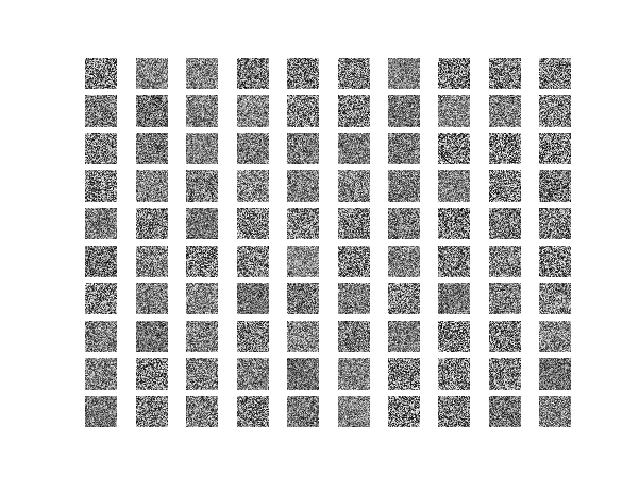
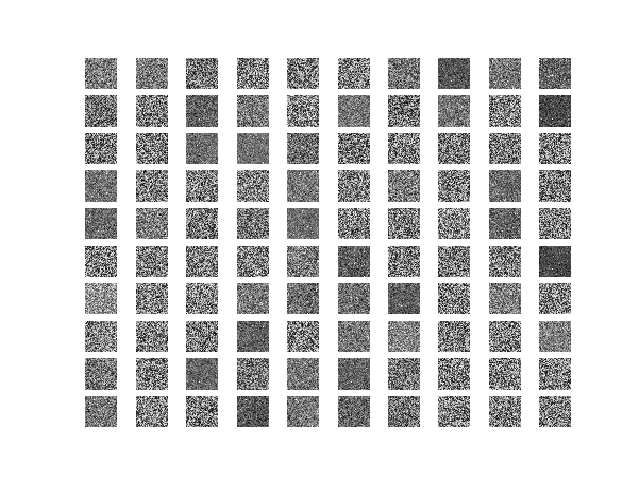
Project 2b3-1

diff --git a/CZ4042-Neural-Networks/Proj2/project2b_3_1.py b/CZ4042-Neural-Networks/Proj2/project2b_3_1.py
@@ -1,0 +1,179 @@
+from load import mnist
+import numpy as np
+
+import pylab
+
+import theano
+import theano.tensor as T
+from theano.sandbox.rng_mrg import MRG_RandomStreams as RandomStreams
+
+# 1 encoder, decoder and a softmax layer
+
+def init_weights(n_visible, n_hidden):
+    initial_W = np.asarray(
+        np.random.uniform(
+            low=-4 * np.sqrt(6. / (n_hidden + n_visible)),
+            high=4 * np.sqrt(6. / (n_hidden + n_visible)),
+            size=(n_visible, n_hidden)),
+        dtype=theano.config.floatX)
+    return theano.shared(value=initial_W, name='W', borrow=True)
+
+def init_bias(n):
+    return theano.shared(value=np.zeros(n,dtype=theano.config.floatX),borrow=True)
+
+#Momentum
+#Decay parameter ??
+def sgd_momentum(cost, params, lr=0.1, decay=0.0001, momentum=0.1):
+    grads = T.grad(cost=cost, wrt=params)
+    updates = []
+    for p, g in zip(params, grads):
+        v = theano.shared(p.get_value())
+        v_new = momentum*v - (g + decay*p) * lr
+        updates.append([p, p + v_new])
+        updates.append([v, v_new])
+        return updates
+
+trX, teX, trY, teY = mnist()
+
+trX, trY = trX[:12000], trY[:12000]
+teX, teY = teX[:2000], teY[:2000]
+
+x = T.fmatrix('x')  
+d = T.fmatrix('d')
+
+
+rng = np.random.RandomState(123)
+theano_rng = RandomStreams(rng.randint(2 ** 30))
+
+corruption_level=0.1
+training_epochs = 5
+learning_rate = 0.1
+batch_size = 128
+beta = 0.5
+rho = 0.05
+
+
+W1 = init_weights(28*28, 900)
+b1 = init_bias(900)
+b1_prime = init_bias(28*28)
+W1_prime = W1.transpose()
+
+W2 = init_weights(900, 625)
+b2 = init_bias(625)
+b2_prime = init_bias(900)
+W2_prime = W2.transpose()
+
+W3 = init_weights(625, 400)
+b3 = init_bias(400)
+b3_prime = init_bias(625)
+W3_prime = W3.transpose()
+
+
+tilde_x = theano_rng.binomial(size=x.shape, n=1, p=1 - corruption_level,
+                              dtype=theano.config.floatX)*x
+y1 = T.nnet.sigmoid(T.dot(tilde_x, W1) + b1)
+z1 = T.nnet.sigmoid(T.dot(y1, W1_prime) + b1_prime)
+
+y2 = T.nnet.sigmoid(T.dot(y1, W2) + b2)
+z2 = T.nnet.sigmoid(T.dot(y2, W2_prime) + b2_prime)
+
+y3 = T.nnet.sigmoid(T.dot(y2, W3) + b3)
+z3 = T.nnet.sigmoid(T.dot(y3, W3_prime) + b3_prime)
+
+
+cost1 = - T.mean(T.sum(x * T.log(z1) + (1 - x) * T.log(1 - z1), axis=1)) \
+				+ beta*T.shape(z1)[1]*(rho*T.log(rho) + (1-rho)*T.log(1-rho)) \
+				- beta*rho*T.sum(T.log(T.mean(z1, axis=0)+1e-6)) \
+				- beta*(1-rho)*T.sum(T.log(1-T.mean(z1, axis=0)+1e-6))
+
+cost2 = - T.mean(T.sum(y1 * T.log(z2) + (1 - y1) * T.log(1 - z2), axis=1)) \
+				+ beta*T.shape(z2)[1]*(rho*T.log(rho) + (1-rho)*T.log(1-rho)) \
+				- beta*rho*T.sum(T.log(T.mean(z2, axis=0)+1e-6)) \
+				- beta*(1-rho)*T.sum(T.log(1-T.mean(z2, axis=0)+1e-6))
+
+cost3 = - T.mean(T.sum(y2 * T.log(z3) + (1 - y2) * T.log(1 - z3), axis=1)) \
+				+ beta*T.shape(z1)[1]*(rho*T.log(rho) + (1-rho)*T.log(1-rho)) \
+				- beta*rho*T.sum(T.log(T.mean(z3, axis=0)+1e-6)) \
+				- beta*(1-rho)*T.sum(T.log(1-T.mean(z3, axis=0)+1e-6))
+
+
+params1 = [W1, b1, b1_prime]
+updates1 = sgd_momentum(cost1, params1)
+train_da1 = theano.function(inputs=[x], outputs = cost1, updates = updates1, allow_input_downcast = True)
+
+params2 = [W2, b2, b2_prime]
+updates2 = sgd_momentum(cost2, params2)
+train_da2 = theano.function(inputs=[x], outputs = cost2, updates = updates2, allow_input_downcast = True)
+
+params3 = [W3, b3, b3_prime]
+updates3 = sgd_momentum(cost3, params3)
+train_da3 = theano.function(inputs=[x], outputs = cost3, updates = updates3, allow_input_downcast = True)
+
+
+print('training dae1 ...')
+d = []
+for epoch in range(training_epochs):
+    # go through trainng set
+    c = []
+    for start, end in zip(range(0, len(trX), batch_size), range(batch_size, len(trX), batch_size)):
+        c.append(train_da1(trX[start:end]))
+    d.append(np.mean(c, dtype='float64'))
+    print(d[epoch])
+
+pylab.figure("Cross entropy hidden layers")
+pylab.plot(range(training_epochs), d, color = "blue", label = "Training layer 1")
+pylab.xlabel('iterations')
+pylab.ylabel('cross-entropy')
+
+print("\ntraining dae2")
+d = []
+for epoch in range(training_epochs):
+    # go through trainng set
+    c = []
+    for start, end in zip(range(0, len(trX), batch_size), range(batch_size, len(trX), batch_size)):
+        c.append(train_da2(trX[start:end]))
+    d.append(np.mean(c, dtype='float64'))
+    print(d[epoch])
+
+
+pylab.plot(range(training_epochs), d, color = "red", label = "Training layer 2")
+
+
+print("\ntraining dae3")
+d = []
+for epoch in range(training_epochs):
+    # go through trainng set
+    c = []
+    for start, end in zip(range(0, len(trX), batch_size), range(batch_size, len(trX), batch_size)):
+        c.append(train_da3(trX[start:end]))
+    d.append(np.mean(c, dtype='float64'))
+    print(d[epoch])
+
+pylab.plot(range(training_epochs), d, color = "green", label = "Training layer 3")
+pylab.plt.legend(loc = "best")
+
+
+w1 = W1.get_value()
+pylab.figure('Hidden Layer 1')
+pylab.gray()
+for i in range(100):
+    pylab.subplot(10, 10, i+1); pylab.axis('off'); pylab.imshow(w1[:,i].reshape(28,28))
+pylab.savefig('figure_2b_2.png')
+
+
+w2 = W2.get_value()
+pylab.figure('Hidden Layer 2')
+pylab.gray()
+for i in range(100):
+    pylab.subplot(10, 10, i+1); pylab.axis('off'); pylab.imshow(w2[:,i].reshape(30,30))
+pylab.savefig('figure_2b_5.png')
+
+w3 = W3.get_value()
+pylab.figure('Hidden Layer 3')
+pylab.gray()
+for i in range(100):
+    pylab.subplot(10, 10, i+1); pylab.axis('off'); pylab.imshow(w3[:,i].reshape(25,25))
+pylab.savefig('figure_2b_6.png')
+
+
+pylab.show()

diff --git a/CZ4042-Neural-Networks/Proj2/project2b_3_2.py b/CZ4042-Neural-Networks/Proj2/project2b_3_2.py
@@ -1,0 +1,170 @@
+from load import mnist
+import numpy as np
+
+import pylab
+
+import theano
+import theano.tensor as T
+from theano.sandbox.rng_mrg import MRG_RandomStreams as RandomStreams
+
+# 1 encoder, decoder and a softmax layer
+
+def init_weights(n_visible, n_hidden):
+    initial_W = np.asarray(
+        np.random.uniform(
+            low=-4 * np.sqrt(6. / (n_hidden + n_visible)),
+            high=4 * np.sqrt(6. / (n_hidden + n_visible)),
+            size=(n_visible, n_hidden)),
+        dtype=theano.config.floatX)
+    return theano.shared(value=initial_W, name='W', borrow=True)
+
+def init_bias(n):
+    return theano.shared(value=np.zeros(n,dtype=theano.config.floatX),borrow=True)
+
+trX, teX, trY, teY = mnist()
+
+trX, trY = trX[:12000], trY[:12000]
+teX, teY = teX[:2000], teY[:2000]
+
+x = T.fmatrix('x')  
+d = T.fmatrix('d')
+
+
+rng = np.random.RandomState(123)
+theano_rng = RandomStreams(rng.randint(2 ** 30))
+
+corruption_level=0.1
+training_epochs = 5
+learning_rate = 0.1
+batch_size = 128
+
+
+W1 = init_weights(28*28, 900)
+b1 = init_bias(900)
+b1_prime = init_bias(28*28)
+W1_prime = W1.transpose()
+
+W2 = init_weights(900, 625)
+b2 = init_bias(625)
+b2_prime = init_bias(900)
+W2_prime = W2.transpose()
+
+W3 = init_weights(625, 400)
+b3 = init_bias(400)
+b3_prime = init_bias(625)
+W3_prime = W3.transpose()
+
+W4 = init_weights(400, 10)
+b4 = init_bias(10)
+
+
+
+tilde_x = theano_rng.binomial(size=x.shape, n=1, p=1 - corruption_level,
+                              dtype=theano.config.floatX)*x
+y1 = T.nnet.sigmoid(T.dot(tilde_x, W1) + b1)
+z1 = T.nnet.sigmoid(T.dot(y1, W1_prime) + b1_prime)
+
+y2 = T.nnet.sigmoid(T.dot(y1, W2) + b2)
+z2 = T.nnet.sigmoid(T.dot(y2, W2_prime) + b2_prime)
+
+y3 = T.nnet.sigmoid(T.dot(y2, W3) + b3)
+z3 = T.nnet.sigmoid(T.dot(y3, W3_prime) + b3_prime)
+
+cost1 = - T.mean(T.sum(x * T.log(z1) + (1 - x) * T.log(1 - z1), axis=1))
+cost2 = - T.mean(T.sum(y1 * T.log(z2) + (1 - y1) * T.log(1 - z2), axis=1))
+cost3 = - T.mean(T.sum(y2 * T.log(z3) + (1 - y2) * T.log(1 - z3), axis=1))
+
+params1 = [W1, b1, b1_prime]
+grads1 = T.grad(cost1, params1)
+
+updates1 = [(param1, param1 - learning_rate * grad1)
+           for param1, grad1 in zip(params1, grads1)]
+train_da1 = theano.function(inputs=[x], outputs = cost1, updates = updates1, allow_input_downcast = True)
+
+
+params2 = [W2, b2, b2_prime]
+grads2 = T.grad(cost2, params2)
+
+updates2 = [(param2, param2 - learning_rate * grad2)
+           for param2, grad2 in zip(params2, grads2)]
+train_da2 = theano.function(inputs=[x], outputs = cost2, updates = updates2, allow_input_downcast = True)
+
+params3 = [W3, b3, b3_prime]
+grads3 = T.grad(cost3, params3)
+
+updates3 = [(param3, param3 - learning_rate * grad3)
+           for param3, grad3 in zip(params3, grads3)]
+train_da3 = theano.function(inputs=[x], outputs = cost3, updates = updates3, allow_input_downcast = True)
+
+
+##Softmax
+p_y4 = T.nnet.softmax(T.dot(y3, W4)+b4)
+y4 = T.argmax(p_y4, axis=1)
+cost4 = T.mean(T.nnet.categorical_crossentropy(p_y4, d))
+
+params4 = [W1, b1, W2, b2, W3, b3, W4, b4]
+grads4 = T.grad(cost4, params4)
+updates4 = [(param4, param4 - learning_rate * grad4)
+           for param4, grad4 in zip(params4, grads4)]
+train_ffn = theano.function(inputs=[x, d], outputs = cost4, updates = updates4, allow_input_downcast = True)
+test_ffn = theano.function(inputs=[x], outputs = y4, allow_input_downcast=True)
+
+
+print('training dae1 ...')
+d = []
+for epoch in range(training_epochs):
+    # go through trainng set
+    c = []
+    for start, end in zip(range(0, len(trX), batch_size), range(batch_size, len(trX), batch_size)):
+        c.append(train_da1(trX[start:end]))
+    d.append(np.mean(c, dtype='float64'))
+    print(d[epoch])
+
+
+print("\ntraining dae2")
+d = []
+for epoch in range(training_epochs):
+    # go through trainng set
+    c = []
+    for start, end in zip(range(0, len(trX), batch_size), range(batch_size, len(trX), batch_size)):
+        c.append(train_da2(trX[start:end]))
+    d.append(np.mean(c, dtype='float64'))
+    print(d[epoch])
+
+
+print("\ntraining dae3")
+d = []
+for epoch in range(training_epochs):
+    # go through trainng set
+    c = []
+    for start, end in zip(range(0, len(trX), batch_size), range(batch_size, len(trX), batch_size)):
+        c.append(train_da3(trX[start:end]))
+    d.append(np.mean(c, dtype='float64'))
+    print(d[epoch])
+
+
+print('\ntraining ffn ...')
+d, a = [], []
+for epoch in range(training_epochs):
+    # go through trainng set
+    c = []
+    for start, end in zip(range(0, len(trX), batch_size), range(batch_size, len(trX), batch_size)):
+        c.append(train_ffn(trX[start:end], trY[start:end]))
+    d.append(np.mean(c, dtype='float64'))
+    a.append(np.mean(np.argmax(teY, axis=1) == test_ffn(teX)))
+    print(a[epoch])
+
+pylab.figure("Cross entropy")
+pylab.plot(range(training_epochs), d)
+pylab.xlabel('iterations')
+pylab.ylabel('cross-entropy')
+pylab.savefig('figure_2b_3.png')
+
+pylab.figure("Test accuracy")
+pylab.plot(range(training_epochs), a)
+pylab.xlabel('iterations')
+pylab.ylabel('test accuracy')
+pylab.savefig('figure_2b_4.png')
+
+
+pylab.show()
